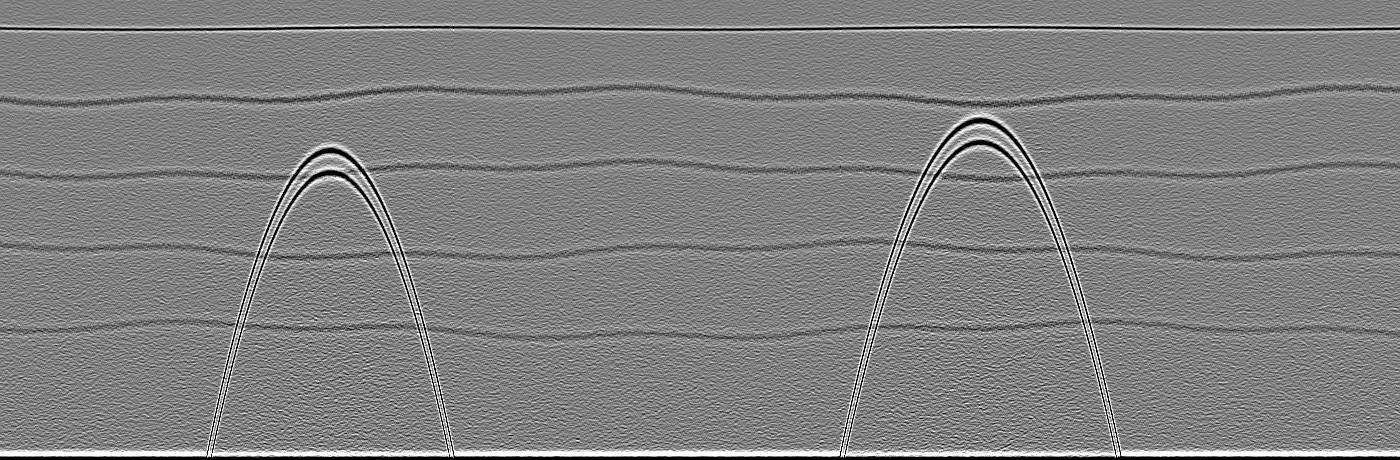
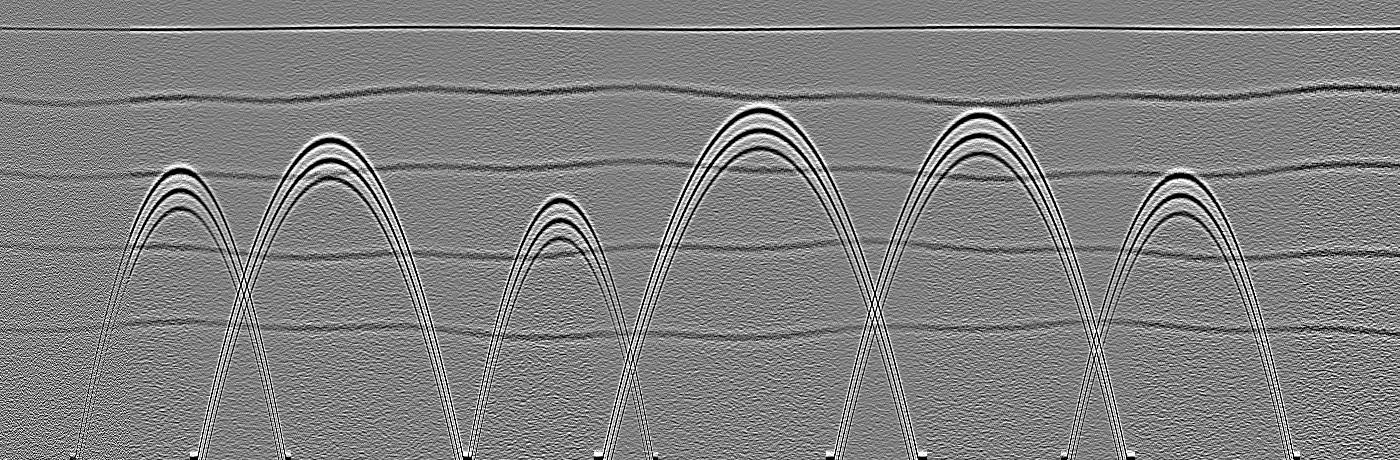
Mueve el control de antena GPR a la parte superior y simula la señal hacia abajo
El desplazador ahora vive en un riel de superficie sobre la pantalla
del radargrama, y un haz de señal viaja hacia abajo desde la posición
de la antena hasta el área revelada, replicando cómo opera realmente
un GPR (antena en superficie, datos hacia profundidad). También se
regenera la imagen del radargrama con seis hipérbolas de tamaños y
profundidades variadas y una zona de clutter, en línea con ejemplos
reales de campo.

diff --git a/assets/css/shared.css b/assets/css/shared.css
@@ -374,24 +374,31 @@ footer a{color:var(--hueso-oscuro);}
   background:#1E130C;
   pointer-events:none;
 }
-.sim-antenna{
+.sim-beam{
   position:absolute;
   top:0;
   bottom:0;
   left:0;
-  width:2px;
-  background:var(--terracota);
+  width:22px;
+  transform:translateX(-50%);
+  background:linear-gradient(to bottom, rgba(166,83,37,.6), rgba(166,83,37,0) 75%);
   pointer-events:none;
 }
-.sim-antenna::after{
-  content:'';
+.sim-surface{
+  position:relative;
+  height:36px;
+  margin-bottom:10px;
+}
+.sim-surface-track{
   position:absolute;
-  top:-1px;
-  left:50%;
-  transform:translateX(-50%);
-  border-left:7px solid transparent;
-  border-right:7px solid transparent;
-  border-top:10px solid var(--terracota);
+  left:7px;
+  right:7px;
+  top:50%;
+  height:5px;
+  transform:translateY(-50%);
+  background:repeating-linear-gradient(90deg, var(--terracota) 0 10px, transparent 10px 20px);
+  border-radius:3px;
+  opacity:.7;
 }
 .sim-callout{
   position:absolute;
@@ -412,43 +419,44 @@ footer a{color:var(--hueso-oscuro);}
 }
 .sim-callout.is-active{opacity:1;}
 .sim-slider{
+  position:absolute;
+  left:0;
+  top:0;
   width:100%;
-  margin:16px 0 4px;
-  height:44px;
+  height:36px;
+  margin:0;
   -webkit-appearance:none;
   appearance:none;
   background:transparent;
   cursor:pointer;
 }
 .sim-slider::-webkit-slider-runnable-track{
-  height:6px;
-  background:var(--siena);
-  border-radius:3px;
+  height:36px;
+  background:transparent;
 }
 .sim-slider::-webkit-slider-thumb{
   -webkit-appearance:none;
-  width:34px;
-  height:24px;
-  border-radius:4px;
+  width:30px;
+  height:22px;
+  border-radius:3px;
   background:var(--terracota);
   border:2px solid var(--hueso);
-  margin-top:-9px;
+  box-shadow:0 0 0 1px var(--siena), 0 0 0 5px rgba(166,83,37,.18);
   cursor:grab;
-  box-shadow:0 0 0 1px var(--siena);
 }
 .sim-slider::-moz-range-track{
-  height:6px;
-  background:var(--siena);
-  border-radius:3px;
+  height:36px;
+  background:transparent;
+  border:none;
 }
 .sim-slider::-moz-range-thumb{
-  width:34px;
-  height:24px;
-  border-radius:4px;
+  width:30px;
+  height:22px;
+  border-radius:3px;
   background:var(--terracota);
   border:2px solid var(--hueso);
+  box-shadow:0 0 0 1px var(--siena), 0 0 0 5px rgba(166,83,37,.18);
   cursor:grab;
-  box-shadow:0 0 0 1px var(--siena);
 }
 
 @media (prefers-reduced-motion: reduce){

diff --git a/index.html b/index.html
@@ -192,19 +192,22 @@
         <span>GEOLITIX &middot; Simulador GPR</span>
         <span class="sim-readout-value"><span class="sim-distance">0.0</span> m recorridos</span>
       </div>
+      <div class="sim-surface">
+        <div class="sim-surface-track"></div>
+        <input type="range" class="sim-slider" min="0" max="100" value="0" aria-label="Deslice para mover la antena del georradar sobre el subsuelo y revelar el radargrama">
+      </div>
       <div class="sim-screen">
         <div class="sim-stage">
-          <img class="sim-radargram-img" src="/assets/img/radargram-sim.jpg" alt="Radargrama GPR real con dos anomalías hiperbólicas detectadas" width="1400" height="460">
+          <div class="sim-beam"></div>
+          <img class="sim-radargram-img" src="/assets/img/radargram-sim.jpg" alt="Radargrama GPR real con múltiples anomalías hiperbólicas detectadas" width="1400" height="460">
           <div class="sim-axis">
             <span>0m</span><span>1m</span><span>2m</span><span>3m</span>
           </div>
           <div class="sim-veil"></div>
-          <div class="sim-antenna"></div>
         </div>
         <div class="sim-callout">Detectado: ducto a 1.8 m de profundidad</div>
       </div>
     </div>
-    <input type="range" class="sim-slider" min="0" max="100" value="0" aria-label="Deslice para mover la antena del georradar y revelar el radargrama">
     <p class="caption">Arrastre el control para simular el barrido del GPR sobre una línea soterrada.</p>
   </div>
 </section>

diff --git a/utilities/index.html b/utilities/index.html
@@ -176,19 +176,22 @@
         <span>GEOLITIX &middot; Simulador GPR</span>
         <span class="sim-readout-value"><span class="sim-distance">0.0</span> m recorridos</span>
       </div>
+      <div class="sim-surface">
+        <div class="sim-surface-track"></div>
+        <input type="range" class="sim-slider" min="0" max="100" value="0" aria-label="Deslice para mover la antena del georradar sobre el subsuelo y revelar el radargrama">
+      </div>
       <div class="sim-screen">
         <div class="sim-stage">
-          <img class="sim-radargram-img" src="/assets/img/radargram-sim.jpg" alt="Radargrama GPR real con dos anomalías hiperbólicas detectadas" width="1400" height="460">
+          <div class="sim-beam"></div>
+          <img class="sim-radargram-img" src="/assets/img/radargram-sim.jpg" alt="Radargrama GPR real con múltiples anomalías hiperbólicas detectadas" width="1400" height="460">
           <div class="sim-axis">
             <span>0m</span><span>1m</span><span>2m</span><span>3m</span>
           </div>
           <div class="sim-veil"></div>
-          <div class="sim-antenna"></div>
         </div>
         <div class="sim-callout">Detectado: ducto a 1.8 m de profundidad</div>
       </div>
     </div>
-    <input type="range" class="sim-slider" min="0" max="100" value="0" aria-label="Deslice para mover la antena del georradar y revelar el radargrama">
     <p class="caption">Arrastre el control para simular el barrido del GPR sobre una línea soterrada.</p>
   </div>
 </section>

diff --git a/assets/js/gpr-sim.js b/assets/js/gpr-sim.js
@@ -3,7 +3,7 @@
   sims.forEach(function (sim) {
     var slider = sim.parentElement.querySelector('.sim-slider');
     var veil = sim.querySelector('.sim-veil');
-    var antenna = sim.querySelector('.sim-antenna');
+    var beam = sim.querySelector('.sim-beam');
     var callout = sim.querySelector('.sim-callout');
     var distance = sim.querySelector('.sim-distance');
     var targetStart = parseFloat(sim.dataset.targetStart || '55');
@@ -11,7 +11,7 @@
 
     function update(value) {
       veil.style.width = (100 - value) + '%';
-      antenna.style.left = value + '%';
+      beam.style.left = value + '%';
       if (distance) {
         distance.textContent = ((value / 100) * 10).toFixed(1);
       }